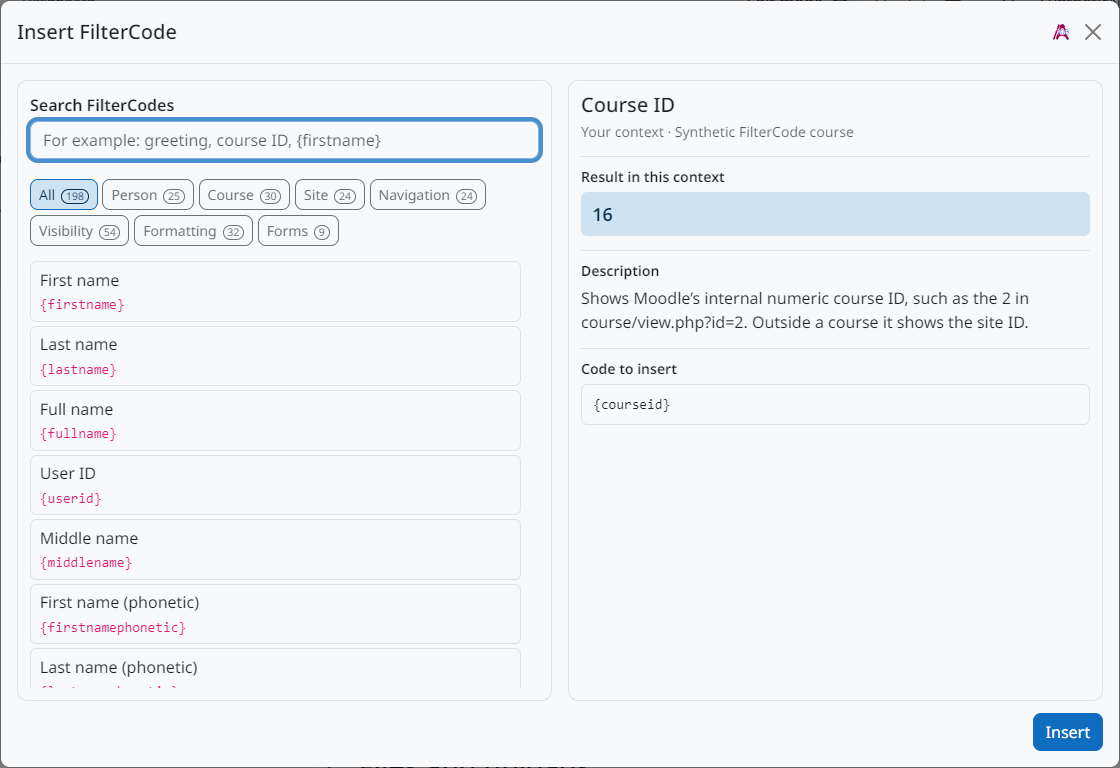
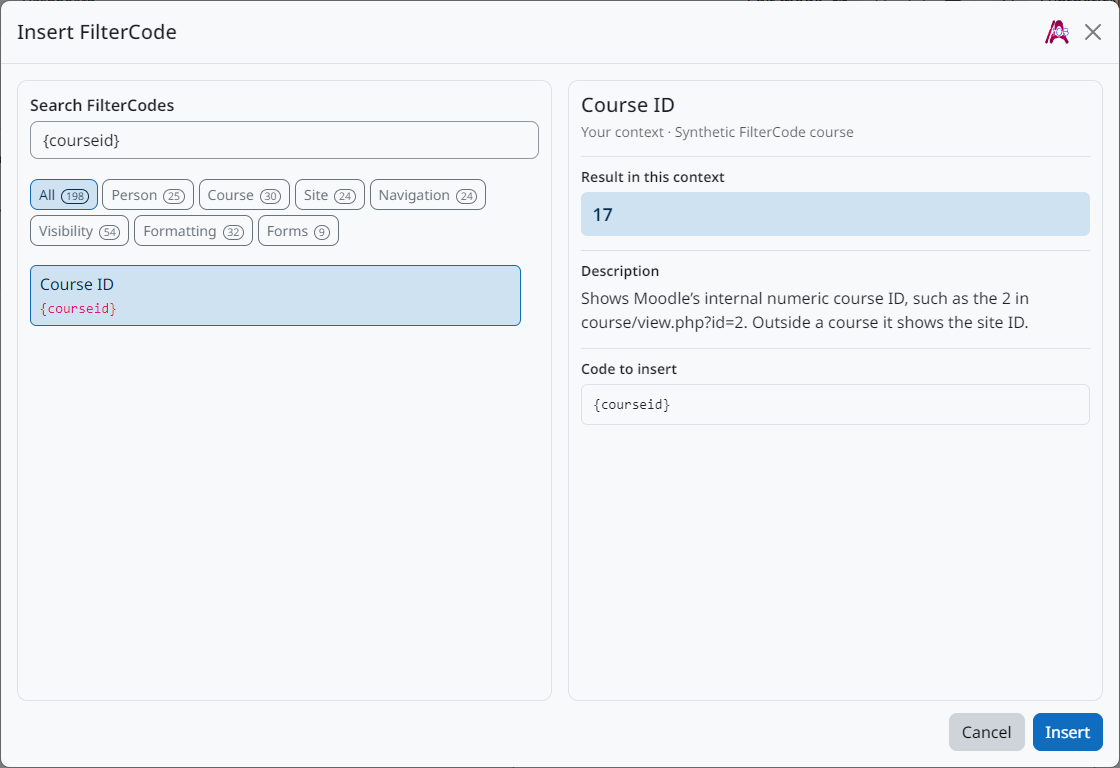
Prepare FilterCode Picker 1.0.0

diff --git a/styles.css b/styles.css
@@ -9,7 +9,7 @@
 .tiny-filtercodepicker-modal .tiny-filtercodepicker-brand {
     display: block;
     width: auto;
-    height: 1rem;
+    height: 1.5rem;
     margin-inline: .75rem .5rem;
 }
 
@@ -142,6 +142,7 @@
 .tiny-filtercodepicker-actions {
     display: flex;
     justify-content: flex-end;
+    gap: .5rem;
     margin-block-start: .75rem;
 }
 

diff --git a/version.php b/version.php
@@ -11,9 +11,9 @@
 defined('MOODLE_INTERNAL') || die();
 
 $plugin->component = 'tiny_filtercodepicker';
-$plugin->version = 2026111301;
+$plugin->version = 2026111302;
 $plugin->requires = 2024100700;
 $plugin->supported = [405, 503];
-$plugin->maturity = MATURITY_BETA;
-$plugin->release = '0.2.0-beta';
+$plugin->maturity = MATURITY_STABLE;
+$plugin->release = '1.0.0';
 $plugin->dependencies = ['filter_filtercodes' => 2026101200];

diff --git a/README.md b/README.md
@@ -19,7 +19,7 @@ Find and insert FilterCodes while you edit Moodle content in TinyMCE. The picker
 2. Install the FilterCode Picker ZIP through **Site administration → Plugins → Install plugins**. For a manual installation, place the `filtercodepicker` directory under `lib/editor/tiny/plugins/` in Moodle's web root and run the Moodle upgrade.
 3. Open a TinyMCE editor. Use the bracket icon in the toolbar or choose **Insert → Insert FilterCode**.
 
-This beta targets Moodle 4.5 through 5.3. The picker requires the `tiny/filtercodepicker:use` capability. Editing teachers and managers have it by default in their assigned contexts.
+Supports Moodle 4.5 through 5.3. The picker requires the `tiny/filtercodepicker:use` capability. Editing teachers and managers have it by default in their assigned contexts.
 
 ## Using the picker
 
